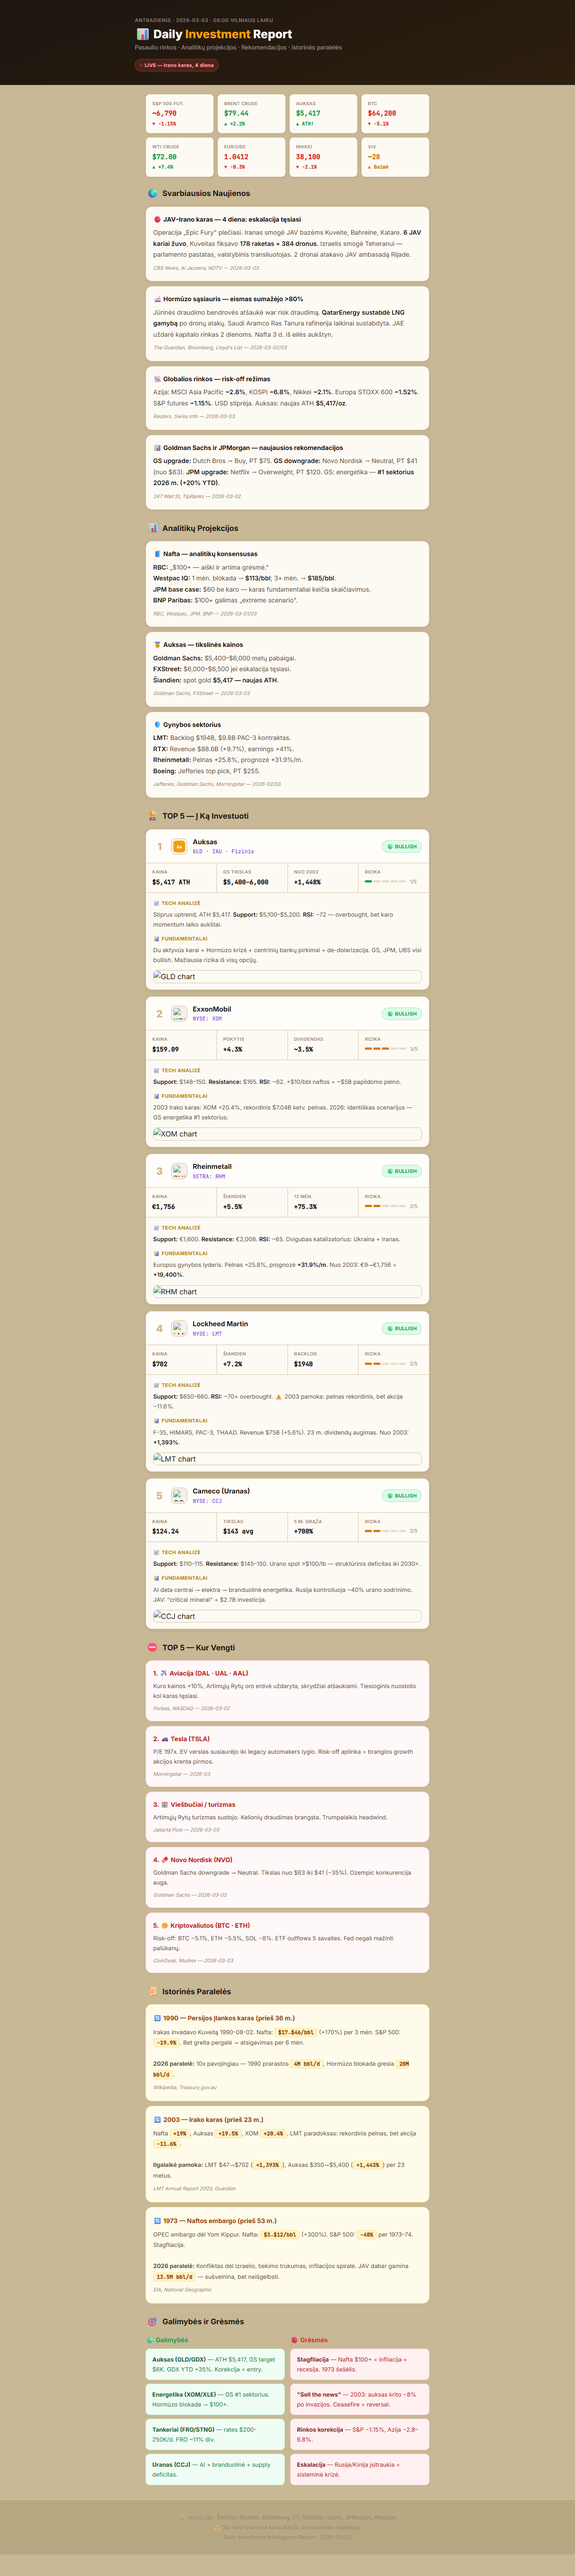
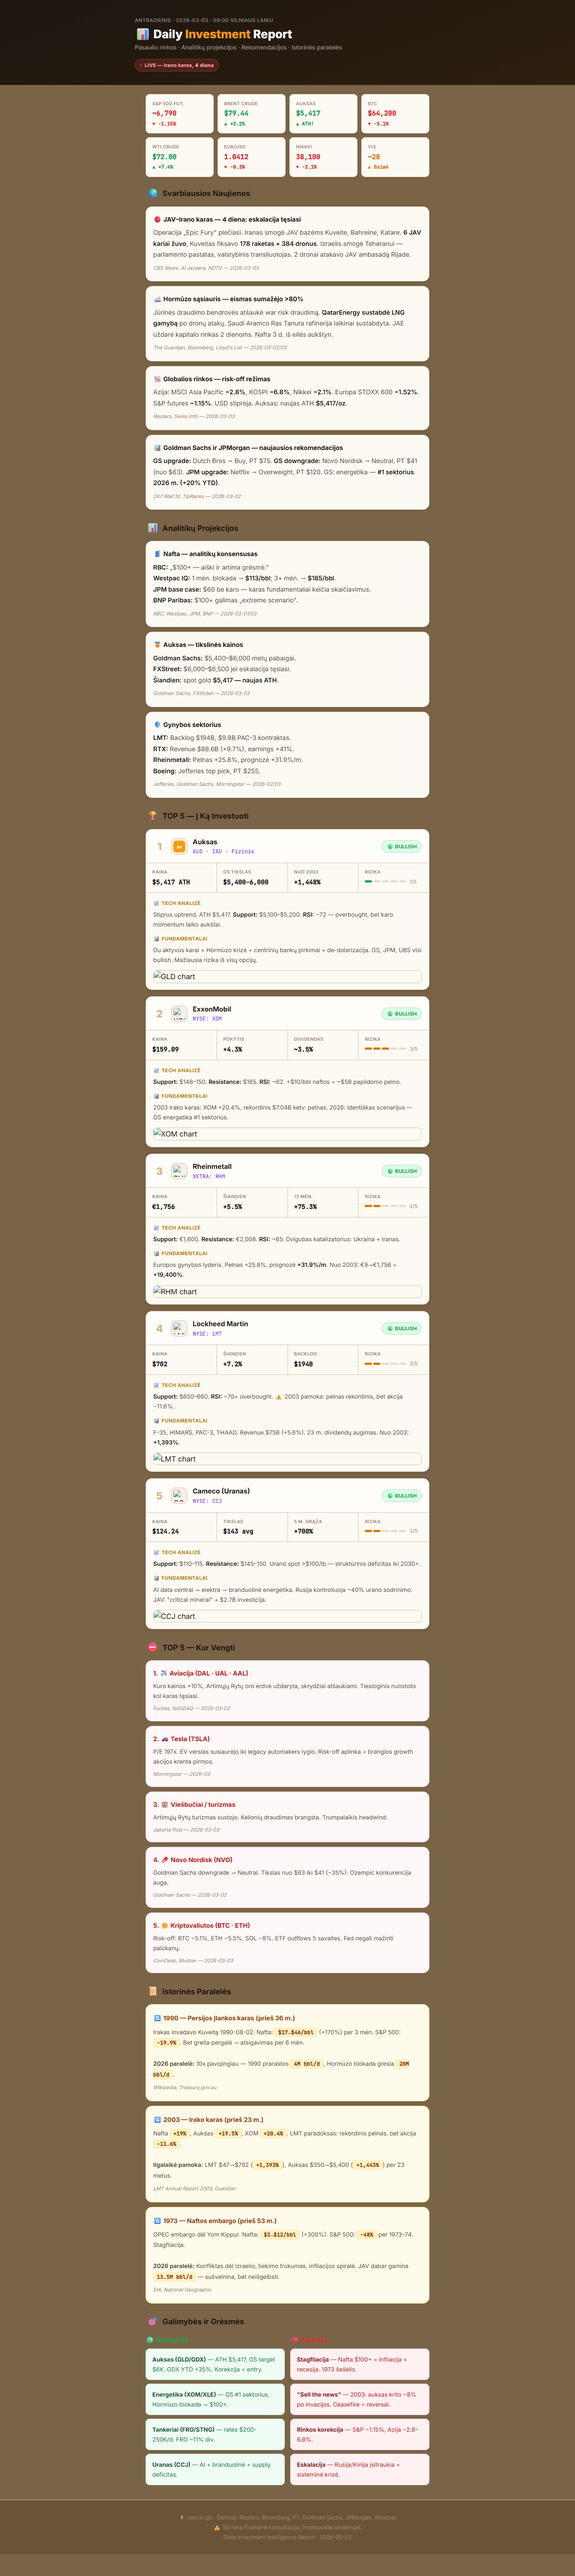
Darker bg + subtle hover

diff --git a/investment-2026-03-03.html b/investment-2026-03-03.html
@@ -9,12 +9,12 @@
 *, *::before, *::after { margin: 0; padding: 0; box-sizing: border-box; }
 
 :root {
-  --bg:           #c8b896;
-  --bg2:          #b8a882;
+  --bg:           #7a6448;
+  --bg2:          #6a5438;
   --card:         #fdfaf4;
   --card-warm:    #fffdf9;
   --card-border:  #d4c4a0;
-  --card-shadow:  rgba(100, 70, 20, 0.14);
+  --card-shadow:  rgba(60, 35, 5, 0.18);
 
   --text:         #1c1510;
   --text-2:       #5a4a35;
@@ -104,6 +104,8 @@ body {
   box-shadow: 0 1px 6px var(--card-shadow);
 }
 .card:last-child { margin-bottom: 0; }
+.card { transition: transform 0.15s ease, box-shadow 0.15s ease; }
+.card:hover { transform: translateY(-2px); box-shadow: 0 4px 14px rgba(60,35,5,0.18); }
 .card-title { font-size: 14px; font-weight: 700; color: var(--text); margin-bottom: 8px; line-height: 1.4; }
 .card-body { font-size: 14px; color: var(--text-2); line-height: 1.75; }
 .card-body strong { color: var(--text); font-weight: 600; }
@@ -117,7 +119,9 @@ body {
   overflow: hidden;
   margin-bottom: 14px;
   box-shadow: 0 2px 8px var(--card-shadow);
+  transition: transform 0.15s ease, box-shadow 0.15s ease;
 }
+.inst-card:hover { transform: translateY(-2px); box-shadow: 0 5px 18px rgba(60,35,5,0.22); }
 .inst-top {
   display: flex; align-items: center; gap: 12px;
   padding: 16px 16px 14px;
@@ -176,7 +180,9 @@ body {
   border: 1px solid #fecaca;
   border-radius: var(--radius); padding: 16px; margin-bottom: 10px;
   box-shadow: 0 1px 4px rgba(220,38,38,0.05);
+  transition: transform 0.15s ease, box-shadow 0.15s ease;
 }
+.avoid-card:hover { transform: translateY(-2px); box-shadow: 0 4px 12px rgba(220,38,38,0.1); }
 .avoid-card .av-title { font-size: 14px; font-weight: 700; color: #b91c1c; margin-bottom: 6px; }
 .avoid-card .av-body { font-size: 13px; color: var(--text-2); line-height: 1.7; }
 
@@ -186,7 +192,9 @@ body {
   border: 1px solid #fde68a;
   border-radius: var(--radius); padding: 18px 16px; margin-bottom: 10px;
   box-shadow: 0 1px 4px rgba(217,119,6,0.06);
+  transition: transform 0.15s ease, box-shadow 0.15s ease;
 }
+.hist-card:hover { transform: translateY(-2px); box-shadow: 0 4px 12px rgba(217,119,6,0.12); }
 .hist-card h3 { font-size: 14px; font-weight: 700; color: #92400e; margin-bottom: 8px; }
 .hist-card p { font-size: 13px; color: var(--text-2); line-height: 1.8; }
 .hs {
@@ -219,7 +227,7 @@ body {
   text-align: center; padding: 28px var(--px);
   color: var(--text-3); font-size: 12px;
   border-top: 1px solid var(--card-border); margin-top: 32px; line-height: 1.8;
-  background: #b8a882;
+  background: #6a5438;
 }
 
 /* ── DESKTOP ── */
